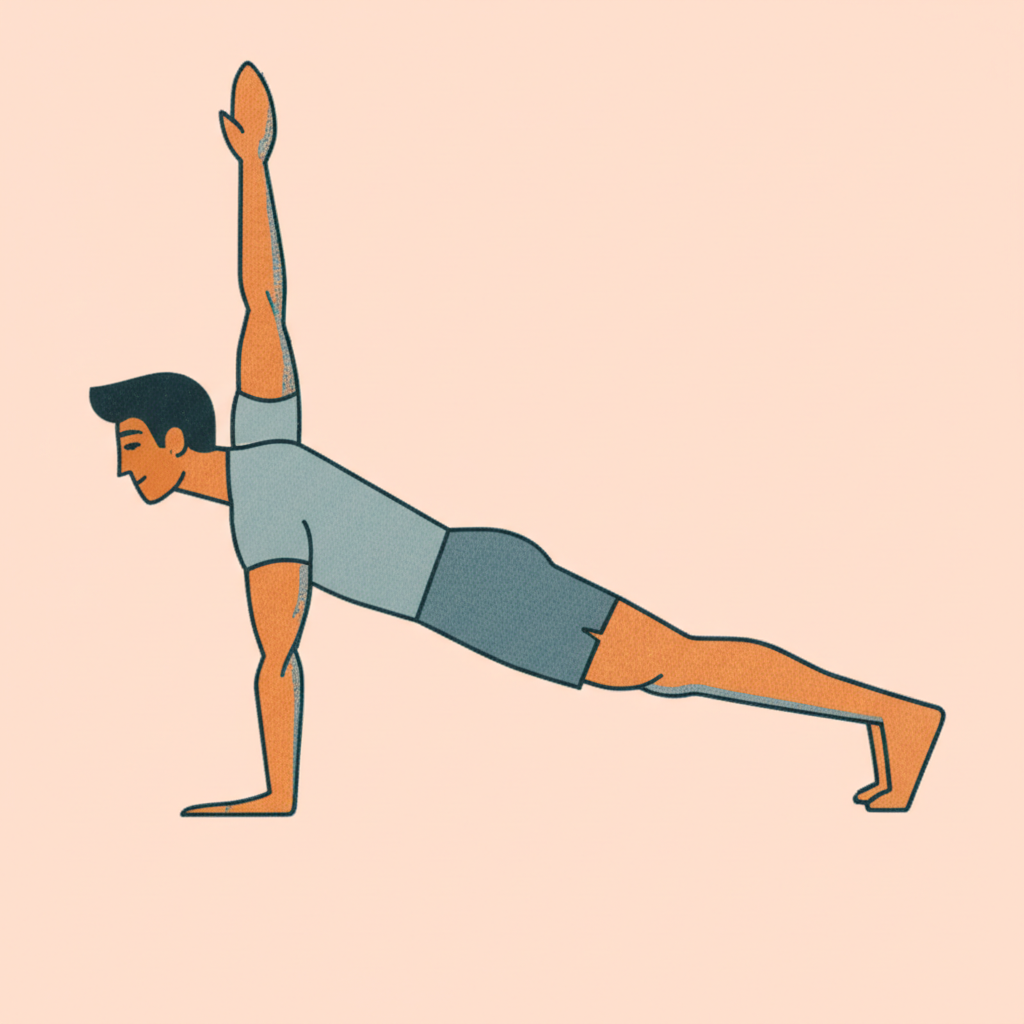
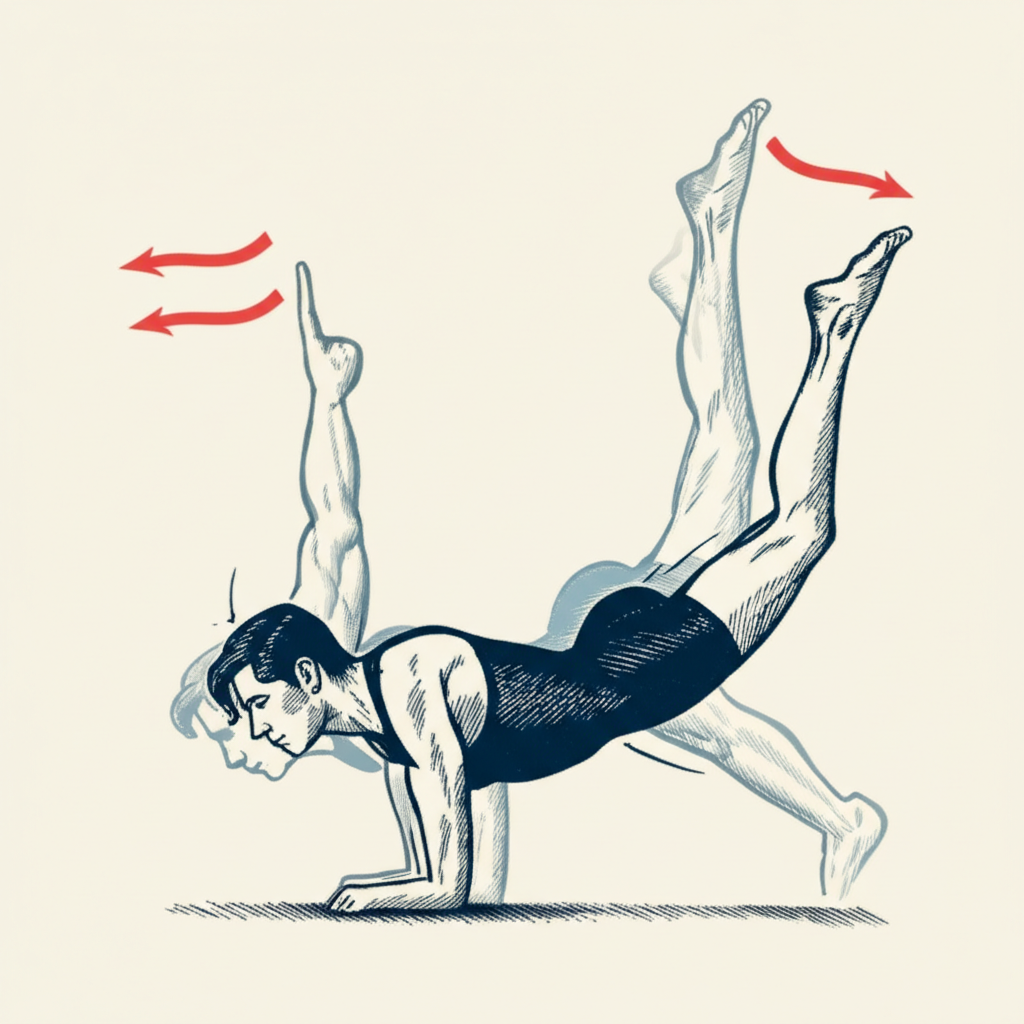
Update exercise illustrations to vintage instructional style
- Changed from mid-century modern to vintage pen-and-ink style
- Art of Manliness / Ted Slampyak inspired illustrations
- Detailed style guide for consistent image generation:
  - Cream/off-white background (#F5F0E6)
  - Black ink crosshatching for shading
  - Navy blue clothing (#1a3a5c)
  - Red directional arrows (#c41e3a) showing movement
- Added detailed form descriptions for each exercise
- Multiple positions/ghosting to show movement phases
- Professional instructional manual quality

Changed region(s): [[0.0625, 0.0625, 0.9375, 0.9062]]

diff --git a/scripts/generate-exercise-images.ts b/scripts/generate-exercise-images.ts
@@ -1,8 +1,8 @@
 /**
- * Generate exercise illustrations in mid-century modern style
- * Inspired by Art of Manliness illustrations
+ * Generate exercise illustrations in vintage instructional style
+ * Inspired by Art of Manliness / Ted Slampyak illustrations
  *
- * Usage: source ~/.env && npx tsx scripts/generate-exercise-images.ts
+ * Usage: export $(grep -v '^#' ~/code/imagineplay/.env | xargs) && npx tsx scripts/generate-exercise-images.ts
  */
 
 import * as fs from 'fs';
@@ -11,7 +11,7 @@ import * as path from 'path';
 const GOOGLE_AI_API_KEY = process.env.GOOGLE_AI_API_KEY;
 
 if (!GOOGLE_AI_API_KEY) {
-  console.error('Missing GOOGLE_AI_API_KEY. Run: source ~/.env');
+  console.error('Missing GOOGLE_AI_API_KEY. Run: export $(grep -v "^#" ~/code/imagineplay/.env | xargs)');
   process.exit(1);
 }
 
@@ -22,179 +22,239 @@ if (!fs.existsSync(OUTPUT_DIR)) {
   fs.mkdirSync(OUTPUT_DIR, { recursive: true });
 }
 
-// Mid-century modern illustration style prompt
-const MID_CENTURY_STYLE = `=== MID-CENTURY MODERN ILLUSTRATION STYLE ===
-Create a stylized fitness illustration inspired by 1950s-1960s instructional art:
+// =============================================================================
+// STYLE GUIDE - Passed to EVERY image generation for consistency
+// =============================================================================
+const STYLE_GUIDE = `=== VINTAGE INSTRUCTIONAL ILLUSTRATION STYLE GUIDE ===
 
-ARTISTIC STYLE:
-- Clean, bold linework with confident strokes
-- Limited color palette: 2-3 muted tones (warm ochre, slate blue, dusty rose, sage green)
-- Flat color blocks with subtle texture (like vintage screenprint or risograph)
-- Geometric simplification of human form
-- Strong silhouettes that read clearly at small sizes
-- Retro mid-century modern aesthetic like Charley Harper meets fitness manual
+You are creating exercise illustrations in the style of classic fitness manuals and Art of Manliness illustrations by Ted Slampyak.
+
+ARTISTIC STYLE (CRITICAL - FOLLOW EXACTLY):
+- Traditional pen and ink illustration with precise crosshatching for shading
+- Bold, confident black ink outlines with varying line weights (thicker outlines, finer detail lines)
+- Crosshatch shading technique using parallel lines at different angles for depth and form
+- Clean, anatomically accurate figure drawing with visible muscle definition
+- Professional instructional manual quality - like 1950s-1960s fitness guides
+
+COLOR PALETTE (STRICT - USE ONLY THESE):
+- Background: Warm cream/off-white (#F5F0E6) - like aged paper
+- Primary figure color: Deep navy blue (#1a3a5c) for clothing/shorts
+- Ink lines: Rich black (#1a1a1a) for all linework and crosshatching
+- Skin tone: Leave as cream background with ink crosshatching for shading
+- Motion arrows: Bold red (#c41e3a) with curved directional arrows showing movement path
+- Accent highlights: Light blue wash (#a8c8e8) for subtle depth on clothing
 
 FIGURE RENDERING:
-- Anatomically proportioned but stylized (not cartoonish)
-- Athletic build showing proper muscle engagement
-- Clean, defined edges - no fuzzy or painterly effects
-- Subtle halftone dot texture or paper grain for vintage feel
-- Single figure demonstrating the exercise with perfect form
+- Athletic male or female figure with realistic proportions
+- Clear muscle definition shown through ink crosshatching, not color
+- Profile or 3/4 view preferred for clarity of movement
+- Confident, focused facial expression
+- Simple athletic wear: tank top/t-shirt and shorts
+- Bare feet or simple athletic shoes
+
+SHOWING MOVEMENT (CRITICAL):
+- Use RED curved arrows to show direction of movement
+- For exercises with multiple phases, show 2-3 positions of the figure (ghosted/lighter for previous positions, solid for current)
+- Arrows should be bold, curved, and clearly indicate the motion path
+- Small motion lines near moving body parts to indicate dynamic movement
 
 COMPOSITION:
-- Clean background (solid muted color or simple gradient)
-- Figure positioned to clearly show exercise mechanics
-- Adequate negative space around the figure
-- No text, labels, or UI elements
-- Square format, centered composition
+- Single figure centered on cream background
+- Adequate white space around figure
+- Clean, uncluttered composition
+- No text, labels, or watermarks in the image
+- Square format, figure fills ~70% of frame
+
+TECHNICAL QUALITY:
+- High contrast between ink lines and background
+- Consistent line weight throughout
+- Professional crosshatching technique
+- Clean edges, no fuzzy or blurred lines
 
 AVOID:
 - Photorealistic rendering
-- Bright neon colors
+- Gradients or digital airbrush effects
+- Bright or neon colors
 - Complex backgrounds or environments
-- Multiple figures or action sequences
+- Cartoonish or anime styles
 - 3D CGI look
-- Anime or cartoon styles`;
+- Watercolor or painterly effects
 
-// Exercise definitions with form cues for illustration
+This should look like it came from a vintage physical fitness manual or military training guide.`;
+
+// =============================================================================
+// Exercise definitions with detailed form descriptions
+// =============================================================================
 interface ExerciseIllustration {
   id: string;
   name: string;
   formDescription: string;
+  movementArrows: string;
+  showMultiplePositions: boolean;
   modelGender: 'male' | 'female';
-  modelEthnicity: string;
 }
 
 const EXERCISES: ExerciseIllustration[] = [
   // McGill Big 3
   {
     id: 'mcgill-curl-up',
-    name: 'Curl-Up',
-    formDescription: 'Person lying on back, one knee bent foot flat on floor, other leg extended straight. Hands placed under lower back to maintain natural spine curve. Head and shoulders lifted slightly off ground (only 1-2 inches), chin tucked, core braced. Eyes looking at ceiling.',
+    name: 'McGill Curl-Up',
+    formDescription: `Person lying on back (supine position). One knee bent with foot flat on floor, other leg extended straight along the ground. Both hands placed underneath the lower back to maintain the natural lumbar curve - this is critical for spine protection. Head and shoulders lifted only 1-2 inches off the ground - NOT a full sit-up. Chin slightly tucked, eyes looking at ceiling. Core muscles braced and engaged. Hold this elevated position.`,
+    movementArrows: `Red arrow pointing upward from the shoulders showing the small lifting motion. Small curved arrow near the head showing the slight chin tuck.`,
+    showMultiplePositions: true,
     modelGender: 'male',
-    modelEthnicity: 'East Asian',
   },
   {
     id: 'mcgill-side-plank',
-    name: 'Side Plank',
-    formDescription: 'Person in side plank position on forearm. Elbow directly under shoulder, body in straight line from head to feet. Top arm resting on hip. Hips lifted and stacked, not sagging. Core engaged, neutral spine.',
+    name: 'McGill Side Plank',
+    formDescription: `Person in side-lying position, propped up on forearm. Elbow positioned directly under the shoulder for proper alignment. Body forms a perfectly straight line from head to feet - no sagging or piking at the hips. Top arm resting on the hip or side of body. Feet stacked on top of each other. Knees can be bent for modified version. Core engaged, hips lifted and square. Neutral spine maintained throughout.`,
+    movementArrows: `Red arrow pointing upward at the hip area showing the hip lift direction. Small arrow at the core indicating engagement/bracing.`,
+    showMultiplePositions: true,
     modelGender: 'female',
-    modelEthnicity: 'Black/African',
   },
   {
     id: 'mcgill-bird-dog',
     name: 'Bird Dog',
-    formDescription: 'Person on hands and knees (quadruped position). Right arm extended straight forward parallel to ground, left leg extended straight back parallel to ground. Spine neutral and flat like a table. Core braced, hips square to the ground.',
+    formDescription: `Person on hands and knees in quadruped position (tabletop). Hands directly under shoulders, knees directly under hips. Spine neutral and flat like a table - no arching or rounding. Right arm extending straight forward, parallel to the ground, thumb pointing up. Left leg extending straight back, parallel to the ground, toes pointing down. Hips remain perfectly square to the ground - no rotation or tilting. Core braced throughout. Head in neutral alignment with spine, looking at the floor.`,
+    movementArrows: `Red arrow extending from the shoulder forward along the reaching arm. Red arrow extending from the hip backward along the extending leg. Both arrows show the extension direction.`,
+    showMultiplePositions: true,
     modelGender: 'male',
-    modelEthnicity: 'South Asian',
   },
 
   // Strength exercises
   {
     id: 'goblet-squat',
     name: 'Goblet Squat',
-    formDescription: 'Person in deep squat position holding kettlebell at chest height with both hands cupping the bell. Feet shoulder-width apart, toes slightly out. Knees tracking over toes, elbows between knees. Chest up, back straight, full depth with hips below knees.',
+    formDescription: `Person in deep squat position holding a kettlebell at chest height. Kettlebell held vertically with both hands cupping the sides of the handle (like holding a goblet). Feet shoulder-width apart or slightly wider, toes pointed slightly outward (15-30 degrees). Knees tracking over the toes, pushing outward - elbows can touch inside of knees at bottom. Full depth squat with hips well below knee level. Chest up and proud, back straight, maintaining upright torso. Weight in mid-foot to heels.`,
+    movementArrows: `Two red arrows: one pointing downward showing the descent into the squat, one pointing upward showing the drive up to standing. Curved arrows at the knees showing them tracking outward over toes.`,
+    showMultiplePositions: true,
     modelGender: 'female',
-    modelEthnicity: 'Hispanic/Latino',
   },
   {
     id: 'farmers-carry',
     name: "Farmer's Carry",
-    formDescription: 'Person walking tall while carrying kettlebell in one hand (single-arm carry shown). Shoulders level and packed down, not tilting to one side. Core braced, posture perfect. Looking straight ahead, confident stride mid-step.',
+    formDescription: `Person walking with upright posture while carrying a kettlebell in one hand (single-arm farmer's carry). Shoulders perfectly level - not tilting toward the weight. Shoulder blades packed down and back. Core braced hard to resist lateral flexion. Free arm can be slightly out for balance or held naturally. Walking with controlled, deliberate steps. Head up, eyes forward. Chest proud, tall spine. The loaded side works harder to maintain neutral posture.`,
+    movementArrows: `Red arrow showing forward walking direction. Small arrows at the core/obliques showing the anti-lateral flexion engagement. Arrow at shoulders showing them staying level.`,
+    showMultiplePositions: false,
     modelGender: 'male',
-    modelEthnicity: 'White/Caucasian',
   },
   {
     id: 'kb-deadlift',
     name: 'Kettlebell Deadlift',
-    formDescription: 'Person at bottom of deadlift, hinging at hips. Kettlebell on ground between feet. Back flat with neutral spine, chest up. Knees slightly bent, weight in heels. Arms straight, shoulders over the bell, about to lift.',
+    formDescription: `Person performing hip hinge movement with kettlebell. Starting position: standing tall with kettlebell on the ground between feet. Feet hip-width apart. Movement: hinging at the hips (NOT squatting) - pushing hips back while maintaining flat back. Knees have a soft bend but shins stay relatively vertical. Back is flat with neutral spine - chest up, shoulders back. Arms straight, gripping the kettlebell handle. Weight in heels and mid-foot. Show the bottom position of the hinge with the torso at roughly 45-degree angle.`,
+    movementArrows: `Red curved arrow at the hips showing the hip hinge movement (hips pushing back and then driving forward). Arrow pointing up showing the lift direction. Arrow at the back showing it staying flat/neutral.`,
+    showMultiplePositions: true,
     modelGender: 'female',
-    modelEthnicity: 'Middle Eastern',
   },
   {
     id: 'kb-swing',
     name: 'Kettlebell Swing',
-    formDescription: 'Person at top of kettlebell swing, hips fully extended. Kettlebell at chest height, arms straight. Standing tall with glutes squeezed, core tight. Powerful hip snap position, slight backward lean.',
+    formDescription: `Person at the top of a kettlebell swing. Standing tall with hips fully extended and squeezed forward. Glutes contracted hard at the top. Kettlebell at chest height with arms straight (the arms don't lift the bell - the hip snap does). Shoulders packed down, not shrugged. Core braced, body forming a straight vertical line. Knees straight but not locked. This is the power position - all force comes from the explosive hip extension, not the arms.`,
+    movementArrows: `Large curved red arrow showing the arc of the kettlebell swing from between the legs up to chest height. Arrow at the hips showing the powerful forward hip snap/thrust. Small motion lines behind the kettlebell showing its momentum.`,
+    showMultiplePositions: true,
     modelGender: 'male',
-    modelEthnicity: 'Black/African',
   },
 
   // Mobility exercises
   {
     id: '90-90',
     name: '90/90 Hip Stretch',
-    formDescription: 'Person seated on floor in 90/90 position. Front leg bent 90 degrees in front, back leg bent 90 degrees to the side. Torso upright and tall, sitting bones grounded. Hands on floor for light support.',
+    formDescription: `Person seated on the floor in the 90/90 position. Front leg: hip externally rotated, knee bent at 90 degrees, shin parallel to the front edge of the mat, inner thigh and inner knee resting on floor. Back leg: hip internally rotated, knee bent at 90 degrees, shin perpendicular to front shin, outer thigh and outer knee on floor. Torso upright and tall, sitting bones grounded. Hands can rest lightly on the floor for balance. This stretches both hip internal and external rotation simultaneously.`,
+    movementArrows: `Red curved arrows showing the rotation direction of each hip - external rotation on front leg, internal rotation on back leg. Arrow at the spine showing upright posture.`,
+    showMultiplePositions: false,
     modelGender: 'female',
-    modelEthnicity: 'East Asian',
   },
   {
     id: 'deep-squat-hold',
     name: 'Deep Squat Hold',
-    formDescription: 'Person in full deep squat (Asian squat position). Heels flat on ground, hips dropped below knees. Arms forward for balance or prayer position at chest. Spine neutral, chest lifted, relaxed breathing pose.',
+    formDescription: `Person in a full deep squat (also called Asian squat or malasana). Feet flat on the ground - heels down, not raised. Feet roughly shoulder-width apart, toes turned out slightly. Hips dropped as low as possible, below knee level. Knees tracking over toes, pushed out wide. Torso upright as much as flexibility allows. Arms can be in prayer position at chest, or extended forward for balance. This is a resting position, relaxed but with good posture. Chest lifted, spine as neutral as possible.`,
+    movementArrows: `Small arrows at the heels emphasizing they stay flat on ground. Arrows at the knees showing them pressing outward. Arrow showing the hip sinking down low.`,
+    showMultiplePositions: false,
     modelGender: 'male',
-    modelEthnicity: 'Hispanic/Latino',
   },
   {
     id: 'couch-stretch',
     name: 'Couch Stretch',
-    formDescription: 'Person in lunge position with back foot elevated against wall (shin vertical on wall). Front foot flat on ground, front knee at 90 degrees. Torso upright, squeezing back glute, stretching hip flexor. Hands on front knee.',
+    formDescription: `Person in a deep lunge position with back foot elevated against a wall (or couch). Front foot flat on ground, front knee at roughly 90 degrees, front shin vertical. Back knee on the ground (use pad for comfort), back shin running up the wall vertically so the top of the back foot is against the wall. Torso upright and tall, not leaning forward. Back glute squeezed to increase the hip flexor stretch. Hands can rest on front knee for support. This intensely stretches the hip flexors and quadriceps of the back leg.`,
+    movementArrows: `Red arrow at the back hip showing the hip flexor stretch direction (hip extending/opening). Arrow at the glute showing the squeeze/contraction. Arrow showing torso staying upright.`,
+    showMultiplePositions: false,
     modelGender: 'female',
-    modelEthnicity: 'White/Caucasian',
   },
   {
     id: 'pigeon-stretch',
     name: 'Pigeon Stretch',
-    formDescription: 'Person in pigeon pose. Front leg bent with shin roughly parallel to front of mat. Back leg extended straight behind. Torso upright or folded forward over front leg. Deep hip external rotation stretch.',
+    formDescription: `Person in pigeon pose. Front leg: bent with shin roughly parallel to the front of the mat (or angled based on flexibility), outer thigh and hip resting on the ground, knee bent at roughly 90 degrees. Back leg: extended straight behind, top of thigh, knee, and top of foot all resting on the ground. Hips square to the front as much as possible. Torso can be upright for less intensity or folded forward over the front leg for deeper stretch. This deeply stretches the hip external rotators (piriformis, glutes) of the front leg.`,
+    movementArrows: `Arrow showing the external rotation of the front hip. Arrow showing the hip flexor stretch of the back leg. If folded forward, arrow showing the forward fold direction.`,
+    showMultiplePositions: true,
     modelGender: 'male',
-    modelEthnicity: 'South Asian',
   },
 
   // Warmup exercises
   {
     id: 'cat-cow',
     name: 'Cat-Cow',
-    formDescription: 'Person on hands and knees showing the "cat" position - back rounded up toward ceiling, head tucked down, tailbone tucked under. Hands under shoulders, knees under hips. Full spinal flexion.',
+    formDescription: `Person on hands and knees showing the CAT position (spinal flexion). Hands under shoulders, knees under hips. Back rounded up toward the ceiling like an angry cat - full spinal flexion. Head dropped down, chin toward chest. Tailbone tucked under. Abdominals pulled in. The opposite COW position would have the back arched, belly dropping, head lifted - but show the CAT position primarily with a ghosted cow position to show the movement.`,
+    movementArrows: `Red curved arrows showing the spinal movement - arrow curving upward for the cat (rounding), and a lighter/ghosted arrow curving downward for the cow (arching). Arrow at the pelvis showing the tuck and tilt.`,
+    showMultiplePositions: true,
     modelGender: 'female',
-    modelEthnicity: 'Black/African',
   },
   {
     id: 'leg-swings',
     name: 'Leg Swings',
-    formDescription: 'Person standing on one leg, other leg swinging forward in a controlled dynamic stretch. One hand on wall for balance. Standing leg straight, swinging leg relaxed. Athletic, dynamic pose captured mid-swing.',
+    formDescription: `Person standing on one leg, other leg swinging forward and back in a controlled pendulum motion. Standing leg straight and stable, planted firmly. Swinging leg relaxed, moving from the hip in a smooth arc. One hand touching a wall or support for balance. Torso stays upright and stable - the movement is isolated to the swinging leg. Show the leg in mid-swing forward position, with ghosted positions showing the backward swing. This is a dynamic stretch for the hip flexors and hamstrings.`,
+    movementArrows: `Large red curved double-arrow showing the pendulum swing path - forward and backward. Arrow at the hip showing it as the pivot point. Arrow at the torso showing it staying stable.`,
+    showMultiplePositions: true,
     modelGender: 'male',
-    modelEthnicity: 'Middle Eastern',
   },
   {
     id: 'hip-circles',
     name: 'Hip Circles',
-    formDescription: 'Person standing with hands on hips, feet shoulder-width apart. Hips rotating in a circular motion (shown mid-circle with hips shifted to one side). Knees soft, upper body stable.',
+    formDescription: `Person standing with feet shoulder-width apart, hands on hips. Hips moving in a circular motion - like hula hooping without the hoop. Knees slightly bent and soft. Upper body relatively stable while the hips trace a circle. Show the hips shifted to one side as part of the circular motion. This mobilizes the entire hip complex and lower back.`,
+    movementArrows: `Red circular arrow around the hip area showing the clockwise (or counterclockwise) rotation path. Small arrows showing the hip shifting through the circle. Arrow at the upper body showing it staying relatively stable.`,
+    showMultiplePositions: false,
     modelGender: 'female',
-    modelEthnicity: 'Hispanic/Latino',
   },
   {
     id: 'glute-bridge-warmup',
     name: 'Glute Bridge',
-    formDescription: 'Person lying on back with knees bent, feet flat on floor hip-width apart. Hips lifted high, creating straight line from shoulders to knees. Arms flat on ground at sides. Glutes squeezed at top, core engaged.',
+    formDescription: `Person lying on back with knees bent, feet flat on floor about hip-width apart, close to the buttocks. Arms flat on the ground at sides, palms down for stability. Hips lifted high off the ground, creating a straight line from shoulders to knees - the bridge position. Glutes squeezed hard at the top. Core engaged. Weight in the heels, not the toes. Head and upper back remain on the ground. This activates the glutes and teaches hip extension.`,
+    movementArrows: `Red arrow pointing upward at the hips showing the lift/bridge direction. Arrow at the glutes showing the squeeze/contraction. Small arrows at the heels showing weight pressing through heels.`,
+    showMultiplePositions: true,
     modelGender: 'male',
-    modelEthnicity: 'East Asian',
   },
 ];
 
 async function generateImage(exercise: ExerciseIllustration): Promise<boolean> {
-  console.log(`Generating: ${exercise.name} (${exercise.modelGender}, ${exercise.modelEthnicity})...`);
+  console.log(`Generating: ${exercise.name}...`);
 
-  const prompt = `${MID_CENTURY_STYLE}
+  const multiPositionInstruction = exercise.showMultiplePositions
+    ? `MULTIPLE POSITIONS: Show 2-3 positions of the figure to illustrate the movement. The starting or secondary positions should be rendered lighter/ghosted (using lighter line weight or less crosshatching), while the primary position is rendered fully. This shows the movement progression.`
+    : `SINGLE POSITION: Show one clear position of the exercise at the key moment of the movement.`;
 
-EXERCISE: ${exercise.name}
+  const prompt = `${STYLE_GUIDE}
 
-FIGURE: ${exercise.modelGender === 'male' ? 'Athletic man' : 'Athletic woman'}, ${exercise.modelEthnicity} ethnicity, wearing simple workout attire (${exercise.modelGender === 'male' ? 'fitted t-shirt and shorts' : 'tank top and leggings'}).
+=== EXERCISE TO ILLUSTRATE ===
 
-POSE/FORM (CRITICAL - show this exactly):
+EXERCISE NAME: ${exercise.name}
+
+FORM AND POSITION (Follow this exactly):
 ${exercise.formDescription}
 
-The illustration should clearly demonstrate proper exercise form that someone could learn from. Show the key position of the movement with anatomical accuracy.
+MOVEMENT ARROWS TO INCLUDE:
+${exercise.movementArrows}
 
-NO text, NO labels, NO watermarks, NO UI elements.`;
+${multiPositionInstruction}
+
+MODEL: Athletic ${exercise.modelGender} figure with realistic proportions.
+
+Remember:
+- Cream/off-white background
+- Black ink crosshatching for shading
+- Navy blue for clothing
+- RED arrows showing movement direction
+- Professional instructional manual quality
+- NO text or labels in the image
+- Square format`;
 
   try {
     const response = await fetch(
@@ -235,15 +295,15 @@ NO text, NO labels, NO watermarks, NO UI elements.`;
         const imageBuffer = Buffer.from(part.inlineData.data, 'base64');
         const imagePath = path.join(OUTPUT_DIR, `${exercise.id}.png`);
         fs.writeFileSync(imagePath, imageBuffer);
-        console.log(`  Saved: ${exercise.id}.png`);
+        console.log(`  ✓ Saved: ${exercise.id}.png`);
         return true;
       }
     }
 
-    console.error(`  No image generated for ${exercise.name}`);
+    console.error(`  ✗ No image generated for ${exercise.name}`);
     return false;
   } catch (error) {
-    console.error(`  Error generating ${exercise.name}:`, error);
+    console.error(`  ✗ Error generating ${exercise.name}:`, error);
     return false;
   }
 }
@@ -251,7 +311,8 @@ NO text, NO labels, NO watermarks, NO UI elements.`;
 async function main() {
   console.log('\n========================================');
   console.log('EXERCISE ILLUSTRATION GENERATOR');
-  console.log('Style: Mid-Century Modern');
+  console.log('Style: Vintage Instructional (Art of Manliness)');
+  console.log('Model: Gemini 2.0 Flash (Nano Banana)');
   console.log(`Output: ${OUTPUT_DIR}`);
   console.log('========================================\n');
 
